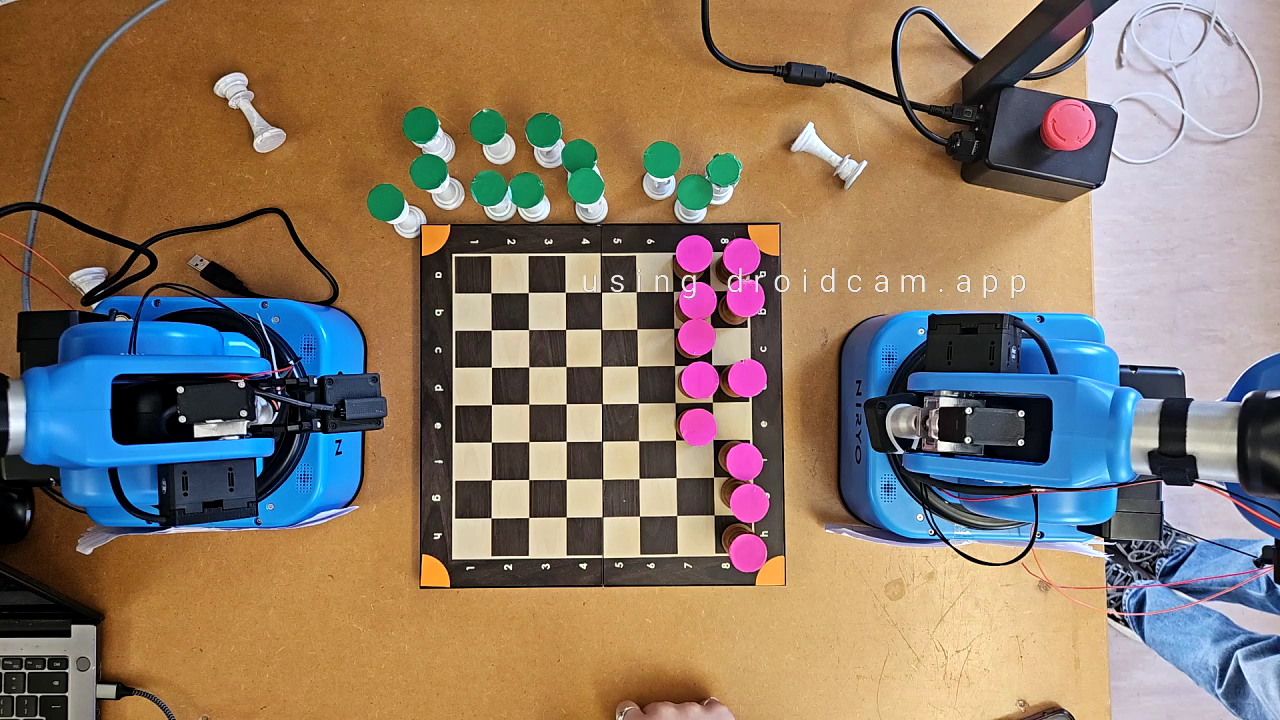
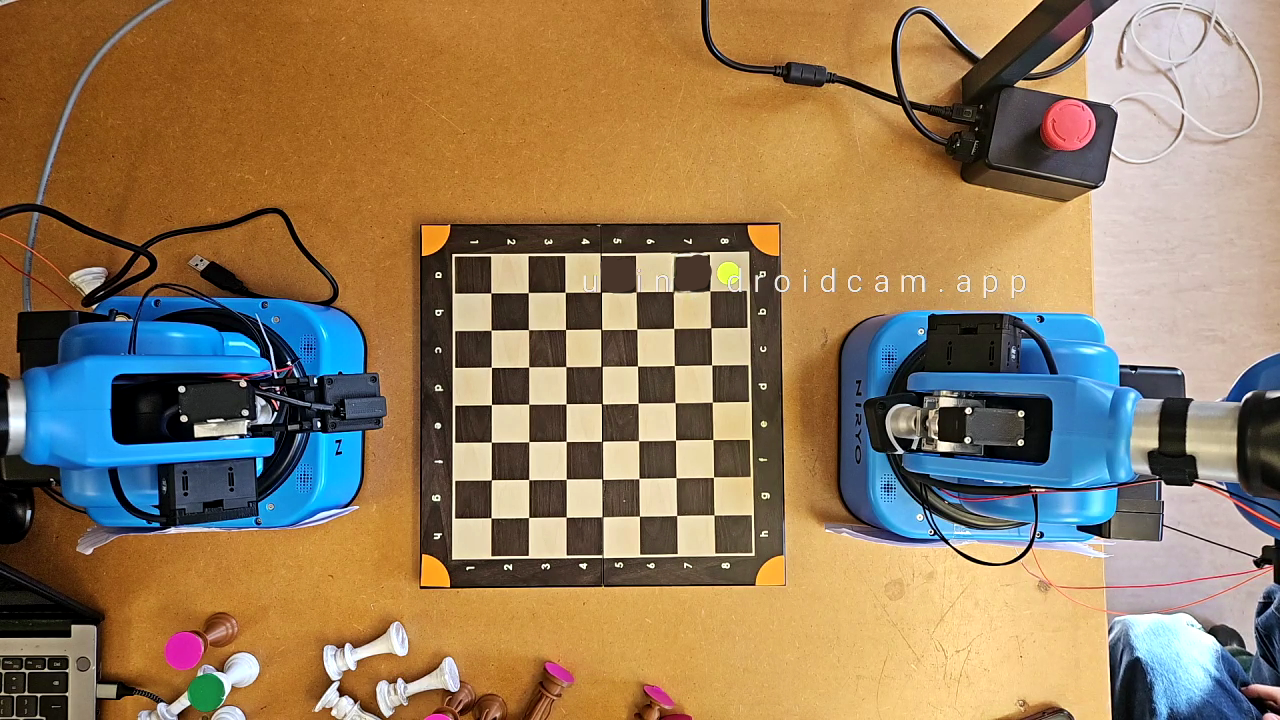
Calibrated code parameters for images in week10 folder

diff --git a/testbed/pink_mask_function.m b/testbed/pink_mask_function.m
@@ -1,4 +1,4 @@
-function [BW,maskedRGBImage] = pink_mask_function(RGB)
+function [BW,maskedRGBImage] = createMask(RGB)
 %createMask  Threshold RGB image using auto-generated code from colorThresholder app.
 %  [BW,MASKEDRGBIMAGE] = createMask(RGB) thresholds image RGB using
 %  auto-generated code from the colorThresholder app. The colorspace and
@@ -6,7 +6,7 @@ function [BW,maskedRGBImage] = pink_mask_function(RGB)
 %  segmentation mask is returned in BW, and a composite of the mask and
 %  original RGB images is returned in maskedRGBImage.
 
-% Auto-generated by colorThresholder app on 23-Feb-2026
+% Auto-generated by colorThresholder app on 20-Mar-2026
 %------------------------------------------------------
 
 
@@ -14,15 +14,15 @@ function [BW,maskedRGBImage] = pink_mask_function(RGB)
 I = rgb2hsv(RGB);
 
 % Define thresholds for channel 1 based on histogram settings
-channel1Min = 0.913;
-channel1Max = 0.995;
+channel1Min = 0.817;
+channel1Max = 0.933;
 
 % Define thresholds for channel 2 based on histogram settings
-channel2Min = 0.000;
+channel2Min = 0.526;
 channel2Max = 1.000;
 
 % Define thresholds for channel 3 based on histogram settings
-channel3Min = 0.606;
+channel3Min = 0.599;
 channel3Max = 1.000;
 
 % Create mask based on chosen histogram thresholds

diff --git a/testbed/green_mask_function.m b/testbed/green_mask_function.m
@@ -6,7 +6,7 @@ function [BW,maskedRGBImage] = createMask(RGB)
 %  segmentation mask is returned in BW, and a composite of the mask and
 %  original RGB images is returned in maskedRGBImage.
 
-% Auto-generated by colorThresholder app on 03-Mar-2026
+% Auto-generated by colorThresholder app on 20-Mar-2026
 %------------------------------------------------------
 
 
@@ -14,15 +14,15 @@ function [BW,maskedRGBImage] = createMask(RGB)
 I = rgb2hsv(RGB);
 
 % Define thresholds for channel 1 based on histogram settings
-channel1Min = 0.302;
-channel1Max = 0.373;
+channel1Min = 0.164;
+channel1Max = 0.461;
 
 % Define thresholds for channel 2 based on histogram settings
-channel2Min = 0.000;
+channel2Min = 0.526;
 channel2Max = 1.000;
 
 % Define thresholds for channel 3 based on histogram settings
-channel3Min = 0.000;
+channel3Min = 0.224;
 channel3Max = 1.000;
 
 % Create mask based on chosen histogram thresholds

diff --git a/testbed/yellow_mask_function.m b/testbed/yellow_mask_function.m
@@ -1,4 +1,4 @@
-function [BW,maskedRGBImage] = create_orange_mask(RGB)
+function [BW,maskedRGBImage] = createMask(RGB)
 %createMask  Threshold RGB image using auto-generated code from colorThresholder app.
 %  [BW,MASKEDRGBIMAGE] = createMask(RGB) thresholds image RGB using
 %  auto-generated code from the colorThresholder app. The colorspace and
@@ -14,15 +14,15 @@ function [BW,maskedRGBImage] = create_orange_mask(RGB)
 I = rgb2hsv(RGB);
 
 % Define thresholds for channel 1 based on histogram settings
-channel1Min = 0.064;
-channel1Max = 0.120;
+channel1Min = 0.142;
+channel1Max = 0.208;
 
 % Define thresholds for channel 2 based on histogram settings
-channel2Min = 0.705;
+channel2Min = 0.431;
 channel2Max = 1.000;
 
 % Define thresholds for channel 3 based on histogram settings
-channel3Min = 0.862;
+channel3Min = 0.582;
 channel3Max = 1.000;
 
 % Create mask based on chosen histogram thresholds

diff --git a/testbed/process_board.m b/testbed/process_board.m
@@ -2,17 +2,17 @@
 
 global fname
 
-fname = 'C:\Users\kirst\chess-vision\images\week9_3\empty.png';
+fname = 'C:\Users\kirst\chester\testbed\image_base_folder\cropped.png';
 
 % read in image
 raw_img = imread(fname);
 %rotated back to correct orientation 
-img = imrotate(raw_img,-180);
+img = imrotate(raw_img,90);
 % convert to greyscale
 grey_img = rgb2gray(img);
 % gaussian blurring filter
 %kirsty images =  20
-gauss_img = imgaussfilt(grey_img,6);
+gauss_img = imgaussfilt(grey_img,5);
 % canny edge detection
 canny_img = edge(gauss_img,'Canny');
 %dialate edges

diff --git a/testbed/process_pieces.m b/testbed/process_pieces.m
@@ -4,14 +4,14 @@ data = load('board_calibration.mat');
 board_dictionary = data.board_dictionary;
 
 % read in image
-raw_img = imread('C:\Users\kirst\chess-vision\images\green pieces\starting.jpg');
+raw_img = imread('C:\Users\kirst\chester\testbed\image_base_folder\week10\3.png');
 %rotate
-img=imrotate(raw_img,-90);
+img=imrotate(raw_img,90);
 %use pink mask
 pink_masked_img = pink_mask_function(img);
 
 %radius of sticker
-radius = 170;
+radius = 30;
 
 white_piece_centre_coords = [];
 
